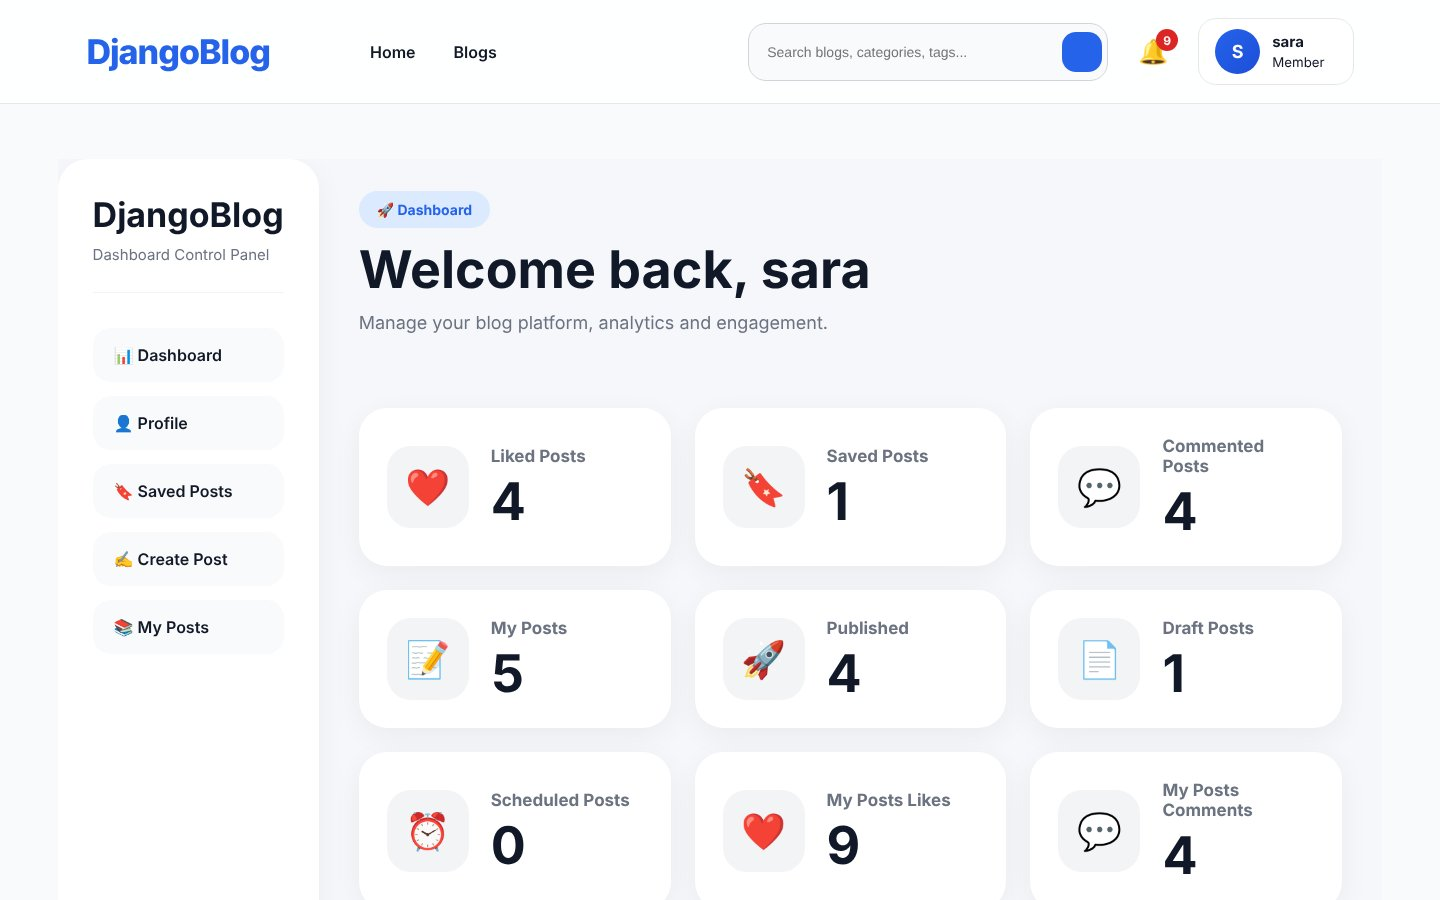
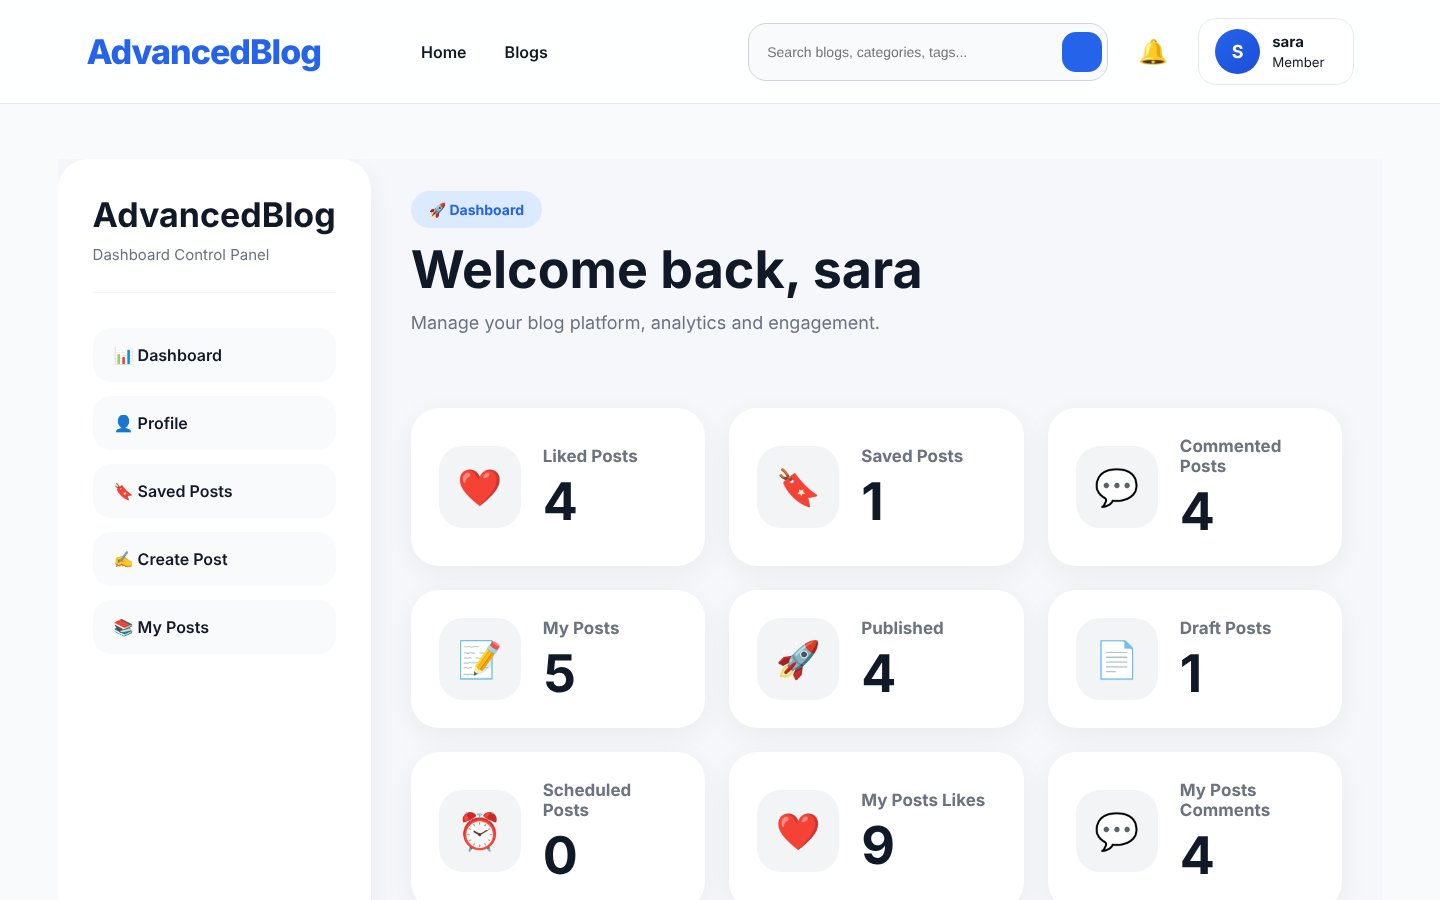
Rename app branding to Advanced Blog System; refresh screenshots
Claude-Session: https://claude.ai/code/session_01332juhZR4hFpuo3wUraexR

diff --git a/templates/base.html b/templates/base.html
@@ -11,7 +11,7 @@
 
     <title>
 
-        Django Blog Platform
+        Advanced Blog System
 
     </title>
 
@@ -755,7 +755,7 @@
 
             <a href="/" class="logo">
 
-                DjangoBlog
+                AdvancedBlog
 
             </a>
 
@@ -933,7 +933,7 @@
 
     <footer>
 
-        Django Blog Platform © 2026 — All Rights Reserved
+        Advanced Blog System © 2026
 
     </footer>
 

diff --git a/templates/accounts/signup.html b/templates/accounts/signup.html
@@ -15,7 +15,7 @@
             <h1>Create Account</h1>
 
             <p>
-                Join the Django Blog Community and start your journey.
+                Join the Advanced Blog System community and start your journey.
             </p>
 
         </div>

diff --git a/templates/blog/blog_detail.html b/templates/blog/blog_detail.html
@@ -928,7 +928,7 @@
 
         <p class="login-text">
 
-            Join DjangoBlog to unlock all interactive features
+            Join Advanced Blog System to unlock all interactive features
             and engage with the blogging community.
 
         </p>

diff --git a/templates/home.html b/templates/home.html
@@ -27,7 +27,7 @@
 
             Create professional blogs, connect with readers,
             explore categories, share ideas, and build your audience
-            using our modern Django blog platform.
+            using Advanced Blog System.
 
         </p>
 

diff --git a/templates/accounts/login.html b/templates/accounts/login.html
@@ -17,7 +17,7 @@
                 🚀
             </div>
 
-            <h1>DjangoBlog</h1>
+            <h1>AdvancedBlog</h1>
 
             <p>
                 Welcome back! Sign in to access your dashboard.

diff --git a/templates/includes/dashboard_sidebar.html b/templates/includes/dashboard_sidebar.html
@@ -366,7 +366,7 @@
     
             <h2>
     
-                DjangoBlog
+                AdvancedBlog
     
             </h2>
     

diff --git a/blog/tasks.py b/blog/tasks.py
@@ -52,12 +52,12 @@ def send_welcome_email(self, username, user_email):
             f"Sending welcome email to {user_email}"
         )
 
-        subject = "Welcome to DjangoBlog 🚀"
+        subject = "Welcome to Advanced Blog System 🚀"
 
         message = f"""
 Hi {username},
 
-Welcome to DjangoBlog.
+Welcome to Advanced Blog System.
 
 Your account was created successfully.
 
@@ -65,7 +65,7 @@ Start exploring blogs,
 writing posts,
 and engaging with the community.
 
-🚀 DjangoBlog Team
+🚀 Advanced Blog System Team
 """
 
         send_mail(
@@ -290,7 +290,7 @@ def send_weekly_blog_recommendations(self):
             <br>
 
             <p>
-                Read more on <b>DjangoBlog 🚀</b>
+                Read more on <b>Advanced Blog System 🚀</b>
             </p>
             """
 

diff --git a/api/urls.py b/api/urls.py
@@ -65,11 +65,11 @@ schema_view = get_schema_view(
 
     openapi.Info(
 
-        title="Django Blog API",
+        title="Advanced Blog System API",
 
         default_version='v1',
 
-        description="Advanced Django Blog API",
+        description="REST API for the Advanced Blog System",
 
     ),
 

diff --git a/core/settings/base.py b/core/settings/base.py
@@ -553,7 +553,7 @@ X_FRAME_OPTIONS = 'DENY'
 
 SPECTACULAR_SETTINGS = {
 
-    'TITLE': 'Django Blog API',
+    'TITLE': 'Advanced Blog System API',
 
     'DESCRIPTION': (
         'Professional Django REST API '
